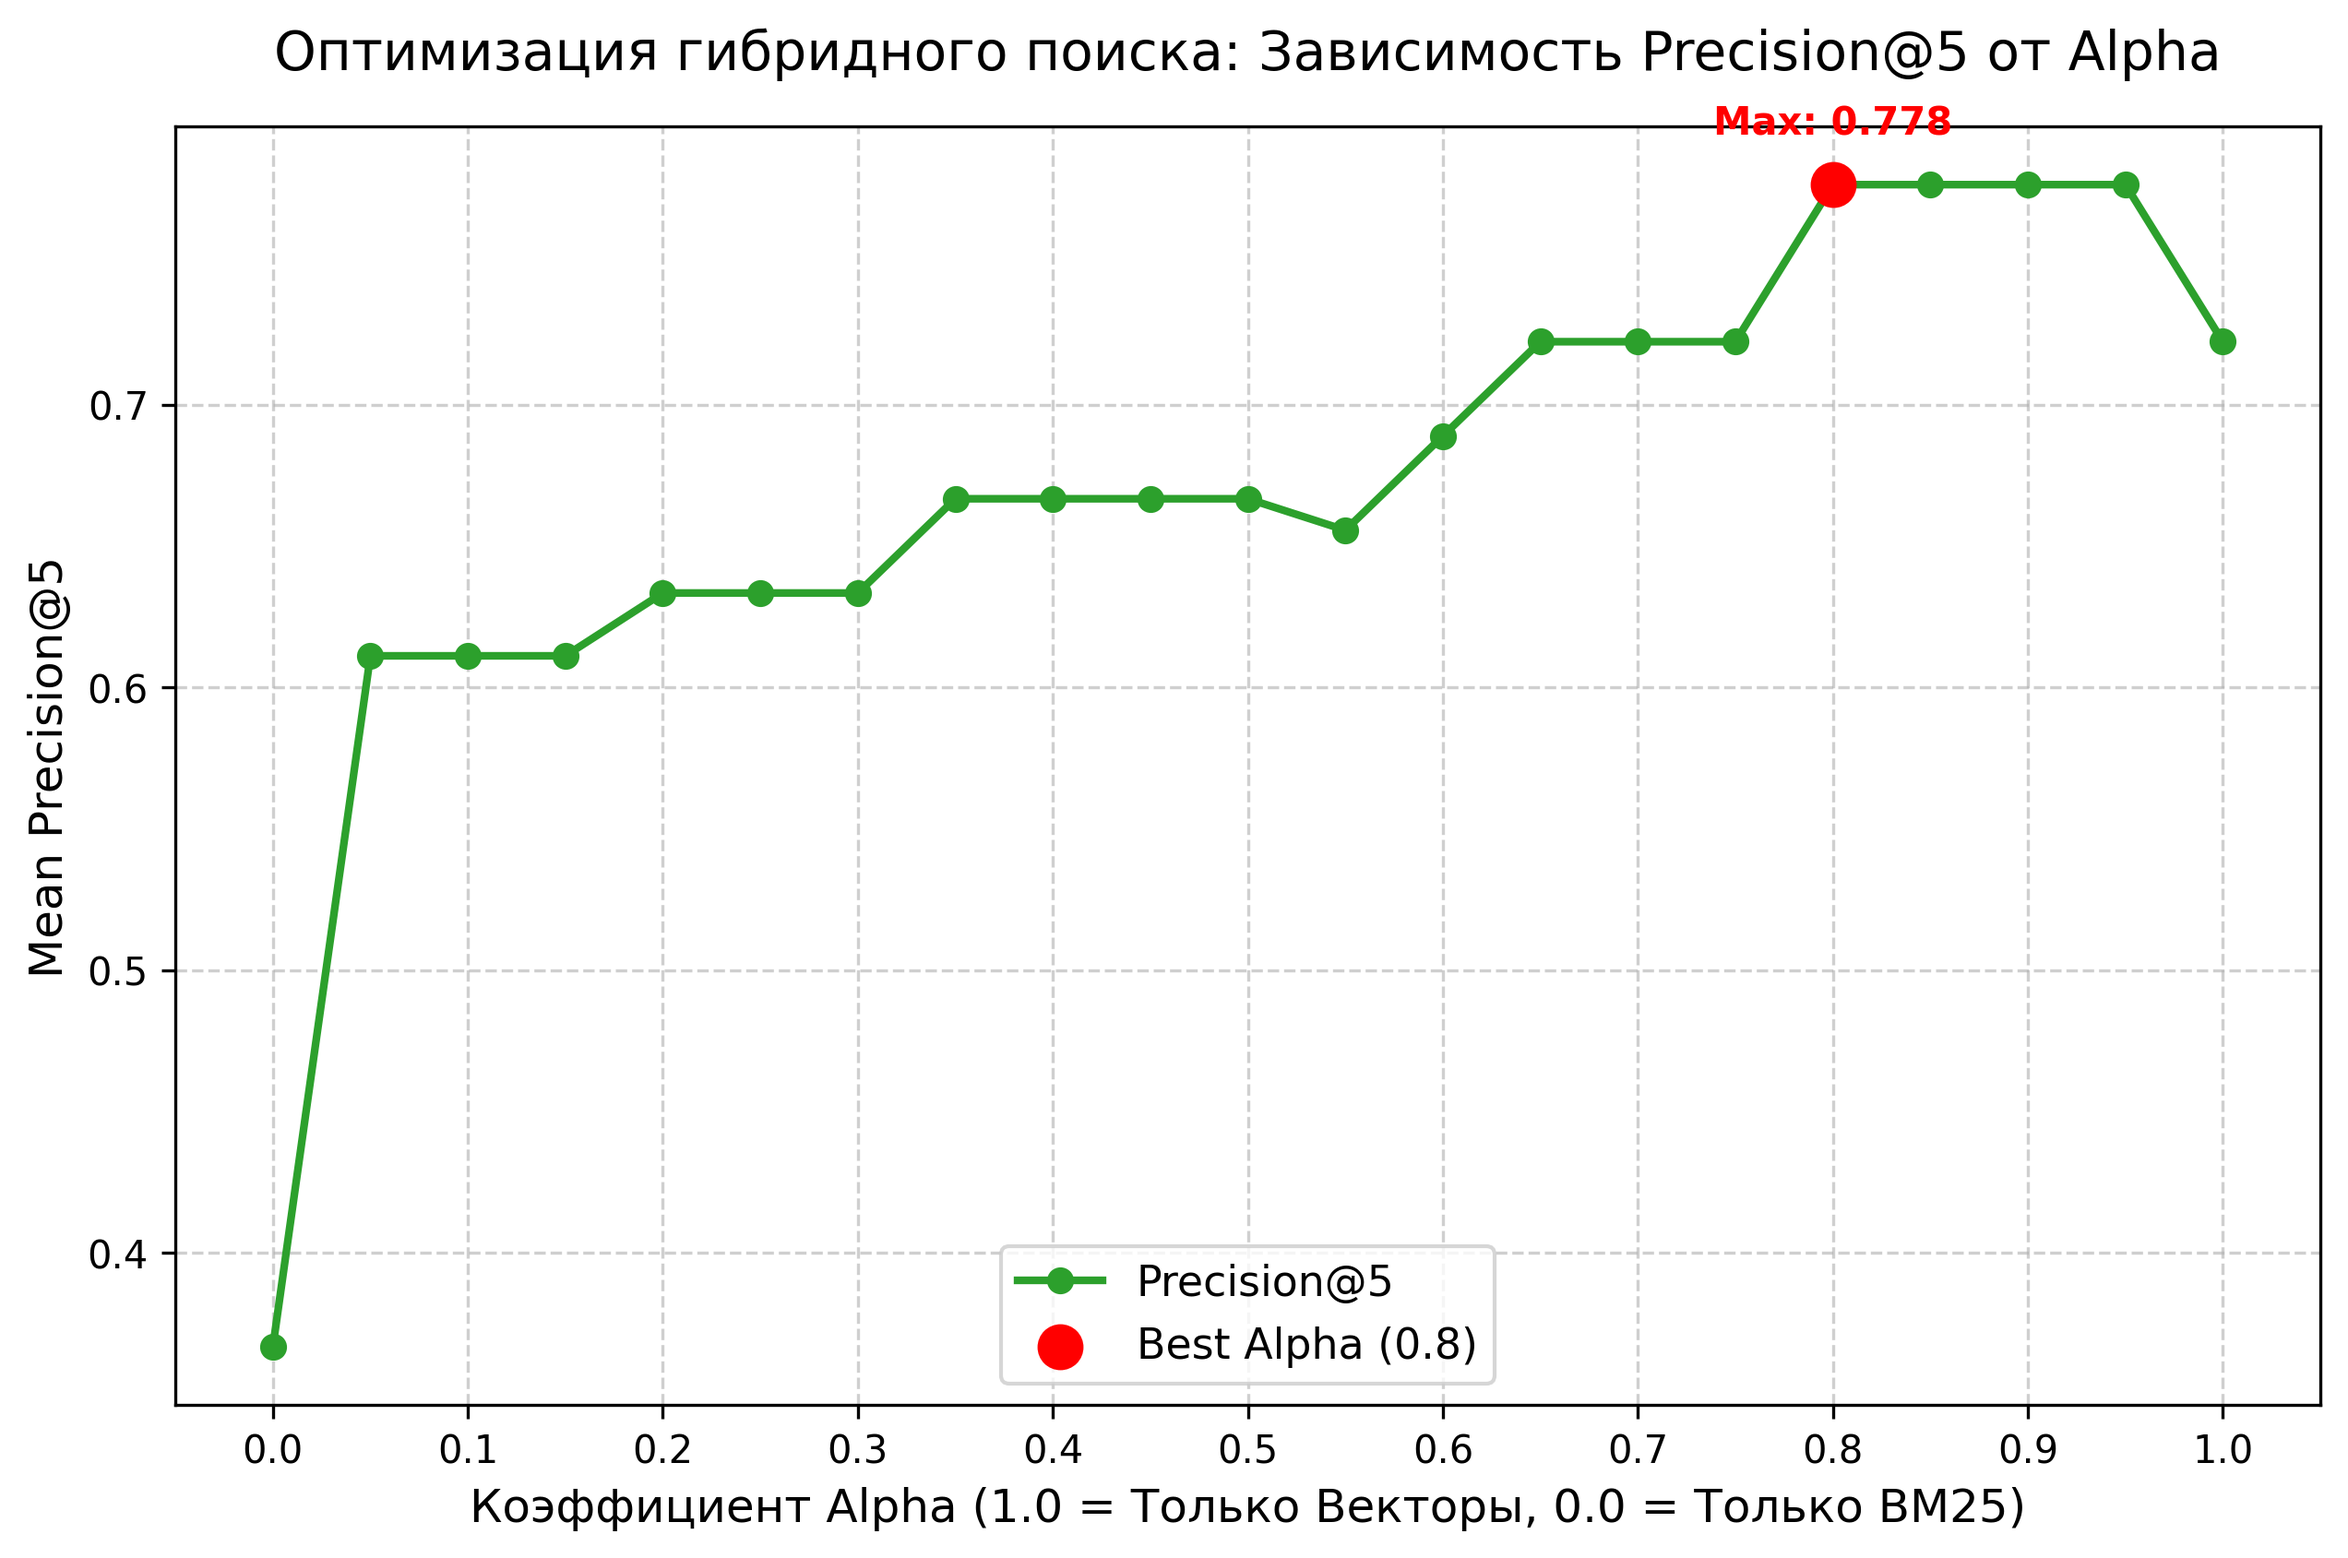
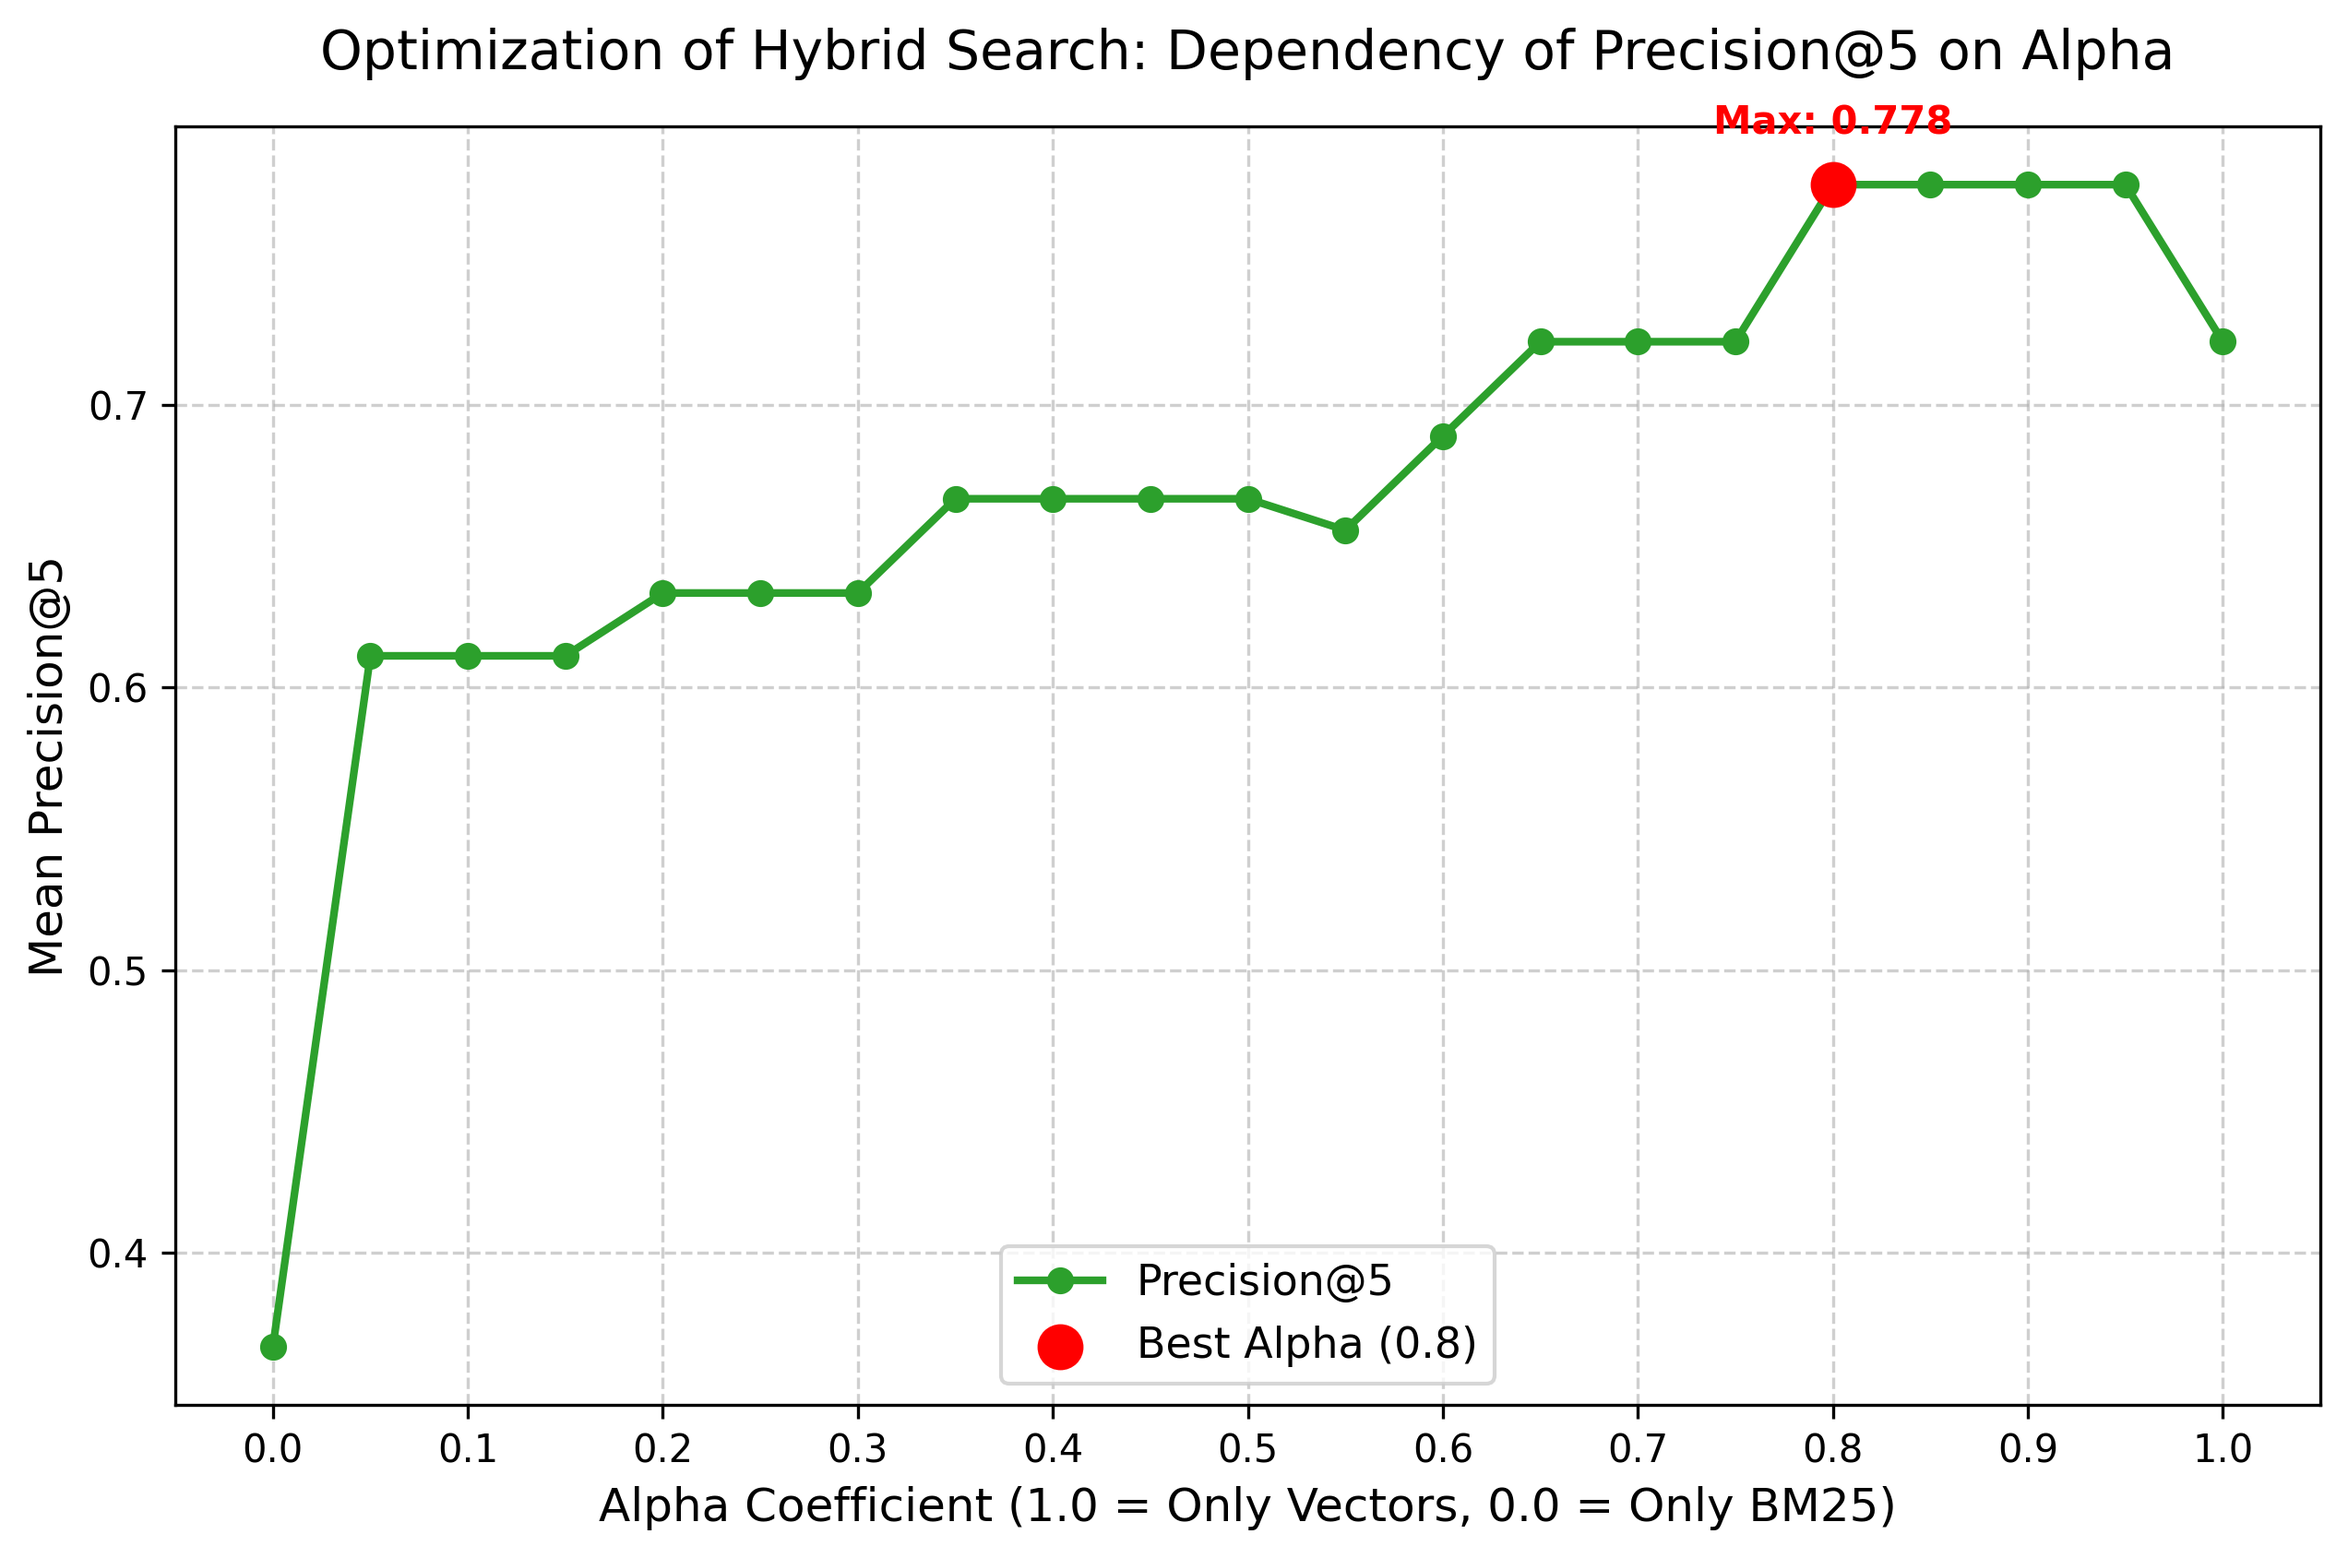
fixes

diff --git a/accuracy_checking/tune_alpha.py b/accuracy_checking/tune_alpha.py
@@ -4,58 +4,57 @@ CodeLens RAG — Alpha Parameter Tuner.
 Runs evaluation across multiple alpha values and plots Precision@5 curve.
 """
 
+import time
 import json
 import numpy as np
 import matplotlib.pyplot as plt
 from pathlib import Path
 
-# Импортируем компоненты твоей системы
 from RAG.searcher import HybridSearcher
 from accuracy_checking.score import score_question
 
 def main():
-    # 1. Настройка путей (используем те же дефолты, что и в твоих скриптах)
     questions_path = Path("accuracy_checking/eval_questions.json")
     
     if not questions_path.exists():
-        print(f"[-] Файл с вопросами не найден по пути: {questions_path}")
+        print(f"Eval questions file not found: {questions_path}")
         return
 
-    print("[+] Инициализация поискового движка HybridSearcher...")
+    print("Initializing HybridSearcher...")
     searcher = HybridSearcher()
     
-    # Загружаем валидационные вопросы
     with open(questions_path, "r", encoding="utf-8") as f:
         queries = json.load(f)
-    print(f"[+] Успешно загружено вопросов для теста: {len(queries)}")
+    print(f"Successfully loaded questions for testing: {len(queries)}")
 
-    # 2. Определяем сетку значений alpha (от 0.0 до 1.0 с шагом 0.1)
-    # Получим список: [0.0, 0.1, 0.2, 0.3, 0.4, 0.5, 0.6, 0.7, 0.8, 0.9, 1.0]
     alpha_grid = np.linspace(0.0, 1.0, 21)
     mean_scores = []
 
-    print("\n=== Запуск процесса оптимизации ===")
+    print("\n=== Running optimization process ===")
+
+    searchtime = []
     
-    # Слой инференса и подсчета метрик в памяти
     for alpha in alpha_grid:
-        alpha = round(alpha, 2)  # Избавляемся от хвостов вещественных чисел плавающей точки
+        alpha = round(alpha, 2) 
         per_question_scores = []
         
         for q in queries:
             query_text = q["query"]
             correct_chunks = q.get("correct_chunk_ids", [])
+
+            start_time = time.time()
             
-            # Прогоняем поиск с текущим значением alpha
             results = searcher.search(query_text, alpha=alpha, top_k=5)
+
+            end_time = time.time()
             
-            # Вытаскиваем только ID предсказанных чанков
+            searchtime.append(end_time - start_time)
+
             predicted_chunks = [chunk["chunk_id"] for (_, chunk) in results]
             
-            # Считаем Precision@5 для конкретного вопроса по правилам из score.py
             score = score_question(predicted_chunks, correct_chunks)
             per_question_scores.append(score)
             
-        # Считаем среднее значение Precision@5 по всему датасету для текущей alpha
         mean_p5 = sum(per_question_scores) / len(per_question_scores)
         mean_scores.append(mean_p5)
         
@@ -65,19 +64,19 @@ def main():
     best_alpha = alpha_grid[best_idx]
     best_score = mean_scores[best_idx]
     
-    print("\n=== Результаты оптимизации ===")
-    print(f"🔥 Лучший коэффициент Alpha: {best_alpha:.2f}")
-    print(f"🎯 Максимальный Mean Precision@5: {best_score:.4f}")
+    print("\n=== Optimization Results ===")
+    print(f"Best Alpha coefficient: {best_alpha:.2f}")
+    print(f"Maximum Mean Precision@5: {best_score:.4f}")
 
-    print("\n[+] Генерация графика зависимости...")
+    print("\nGenerating dependency graph...")
     plt.figure(figsize=(10, 6))
     
     plt.plot(alpha_grid, mean_scores, marker='o', linestyle='-', color='#2ca02c', linewidth=2, label='Precision@5')
     
     plt.scatter(best_alpha, best_score, color='red', s=120, zorder=5, label=f'Best Alpha ({best_alpha:.1f})')
     
-    plt.title("Оптимизация гибридного поиска: Зависимость Precision@5 от Alpha", fontsize=14, pad=15)
-    plt.xlabel("Коэффициент Alpha (1.0 = Только Векторы, 0.0 = Только BM25)", fontsize=12)
+    plt.title("Optimization of Hybrid Search: Dependency of Precision@5 on Alpha", fontsize=14, pad=15)
+    plt.xlabel("Alpha Coefficient (1.0 = Only Vectors, 0.0 = Only BM25)", fontsize=12)
     plt.ylabel("Mean Precision@5", fontsize=12)
     plt.xticks(np.arange(0.0, 1.1, 0.1))
     plt.grid(True, linestyle='--', alpha=0.6)
@@ -91,11 +90,11 @@ def main():
                  weight="bold",
                  color="red")
 
-    # Сохраняем результат в файл на диск
     output_img = "accuracy_checking/alpha_optimization_curve.png"
     plt.savefig(output_img, dpi=300, bbox_inches='tight')
     plt.show()
-    print(f"[+] График успешно сохранен в: {output_img}")
+    print(f"Graph successfully saved to: {output_img}")
+    print(f"Time: {sum(searchtime) / len(searchtime)}")
 
 if __name__ == "__main__":
     main()

diff --git a/RAG/searcher.py b/RAG/searcher.py
@@ -14,9 +14,7 @@ class HybridSearcher:
         self.model = SentenceTransformer("BAAI/bge-m3")
         
         # 3 BM25 (по всему корпусу)
-        corpus = [chunk['code'] for chunk in self.data]
-        self.tokenized_corpus = [doc.split() for doc in corpus]
-        self.bm25 = BM25Okapi(self.tokenized_corpus)
+        self.bm25 = BM25Okapi([chunk["code"].split() for chunk in self.data])
         
         # 4 Инициализация ChromaDB
         self.client = chromadb.PersistentClient(path=db_path)
@@ -40,7 +38,7 @@ class HybridSearcher:
             include=['distances']
         )
         
-        # 2 BM25 для всего корпуса
+        # Полнотекстовый поиск
         bm25_scores = self.bm25.get_scores(query.split())
         
         # 3 Подготовка векторов (заполняем скорами по индексам)

diff --git a/RAG/index.py b/RAG/index.py
@@ -14,7 +14,6 @@ from tqdm import tqdm
 import time
 
 import torch
-import json
 from sentence_transformers import SentenceTransformer
 import chromadb
 import dataclasses
